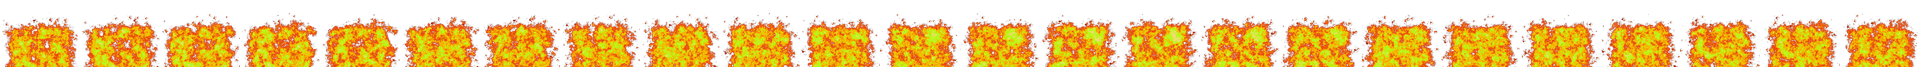
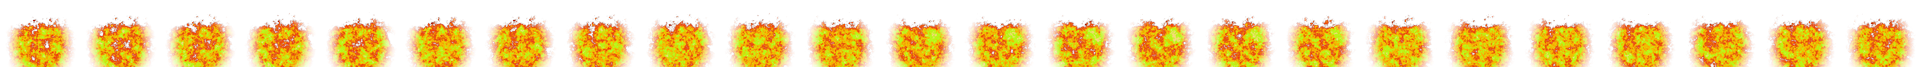
it.41 QA: firewall strip softened (elliptical falloff), trap-set ring flare, studio QA pass logged
Claude-Session: https://claude.ai/code/session_01KH3EW8VsttkrY56DAoxypX

Changed region(s): [[0.0, 0.25, 1.0, 0.85], [0.0625, 0.225, 0.0938, 0.25]]

diff --git a/src/systems/Skills.ts b/src/systems/Skills.ts
@@ -653,6 +653,7 @@ export class SkillSystem {
         // until something steps into it (or it expires).
         const dispose = d.zoneVisual('trap', p.pos.x, p.pos.y);
         this.zones.push({ kind: 'trap', x: p.pos.x, y: p.pos.y, armTicks: 40, ticksLeft: 1200, dispose, syn });
+        d.vfx('vfx_ring', p.pos.x, p.pos.y, { scale: 0.7, flat: true, fps: 24, tint: 0xc8b060, alpha: 0.8 });
         d.burst(p.pos.x, p.pos.y, 0xc8b060, 8);
         d.text(p.pos.x, p.pos.y - 1, 'TRAP SET', 'miss');
         break;

diff --git a/docs/development_log.md b/docs/development_log.md
@@ -81,6 +81,27 @@
   floating damage numbers, scale by 1/zoom (clamped) so a deep zoom never
   fills the view with bars and text (`Enemy.hudScale`, `DamageText.setZoom`).
 
+### Studio QA pass (second session, fresh ranger)
+- XP path: 14 kills on floor 1 -> level 2 -> +1 point; empty hotbar slots
+  advertise the point count and K.
+- Drag: inventory, skill tree, character sheet, cheat menu each moved by
+  their header and stayed in bounds; the sheet reopened at its dropped
+  spot; positions stored under `iso-arpg-ui-pos`.
+- E: opens a chest beside the hero; at the portal stone returns to the
+  remembered floor; at the gate descends.
+- Level 30 via cheat -> 30 points: all 16 actives learned through the tree
+  (own path 1 pt, others 2 pts) + Fleet Foot / Keen Eye; points end at 0
+  and the remaining passives report LOCKED - 2 POINTS. Passives applied:
+  speed 1.21, damage x1.12. Every skill cast from the hotbar started its
+  cooldown and drew its strip (rain waves keep adding streaks over time).
+- Boss arena: bar top-anchored at 44 px above an open window, note slot at
+  96 px; hp bar 26x4 at zoom 1.
+- Fixes from the pass: the firewall strip is now masked with an elliptical
+  falloff (the source sheet was a square tile), trap placement flares a
+  ring. Background-tab note for future QA: never `await setTimeout` in a
+  long test script - hidden tabs throttle timers to 1 Hz and the script
+  keeps running after the CDP call times out.
+
 ### Live QA (Chrome, stepped sim)
 Fresh mage -> K: only Fireball READY, all else LOCKED with reasons ->
 learn (1 pt -> 0, auto slot 1, synergy frame) -> drag the tree 161x44 px,
